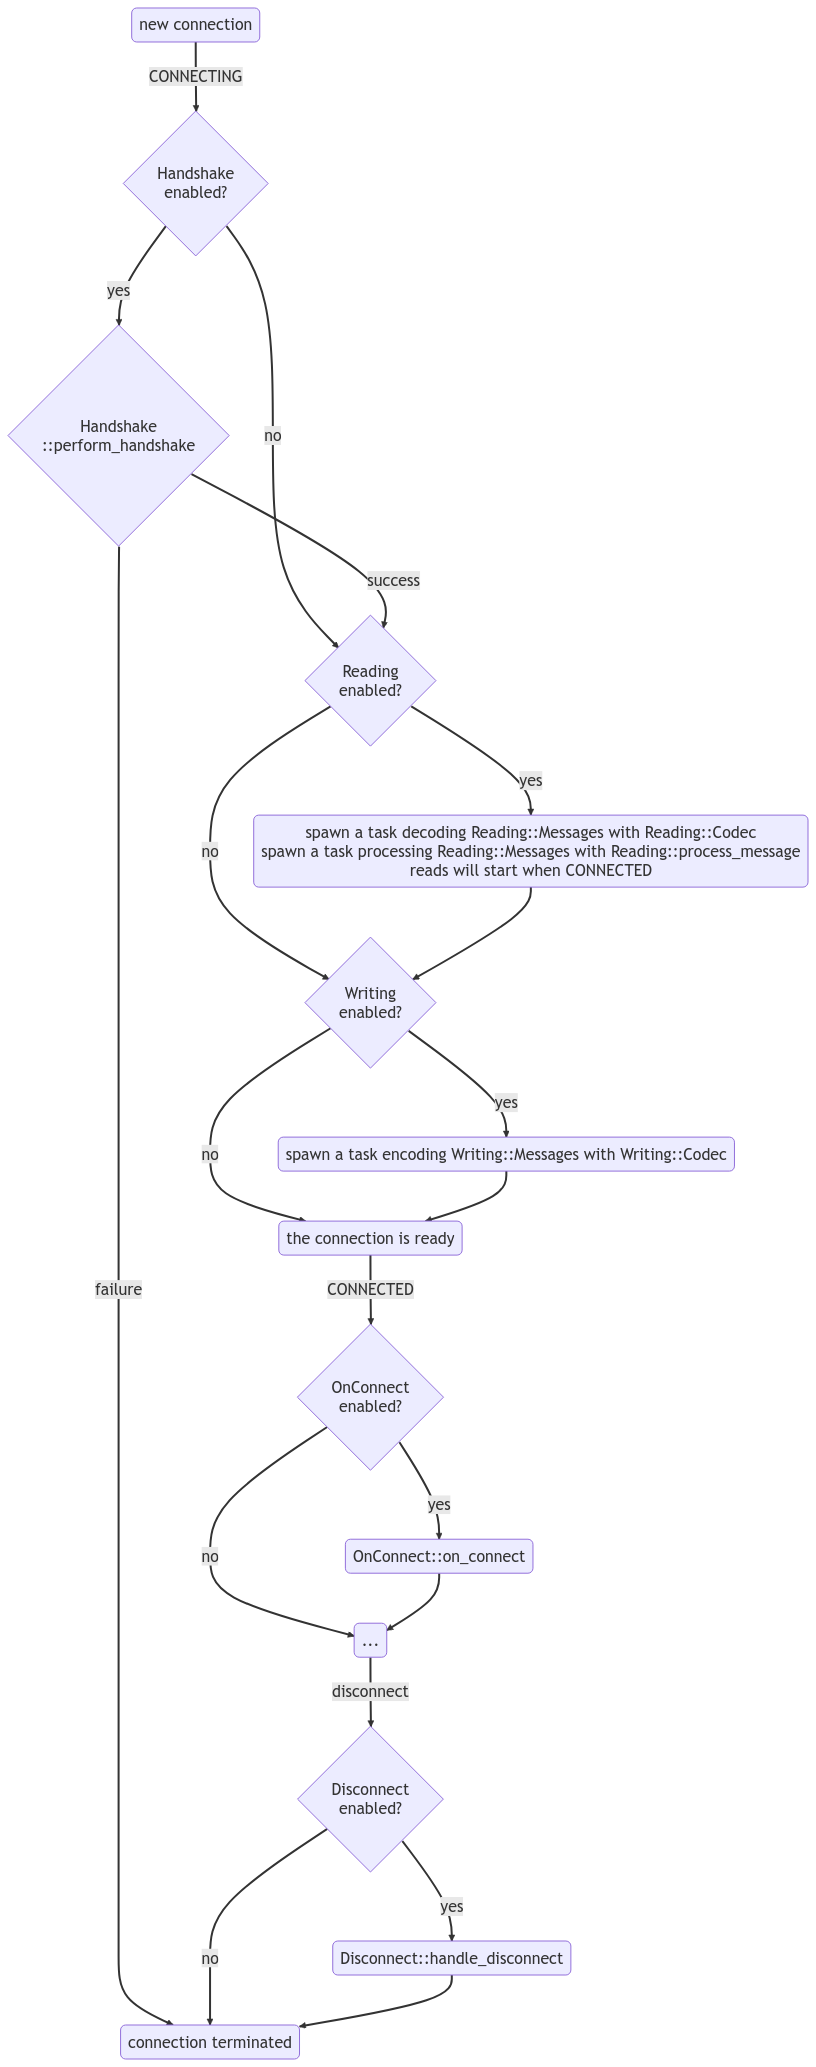
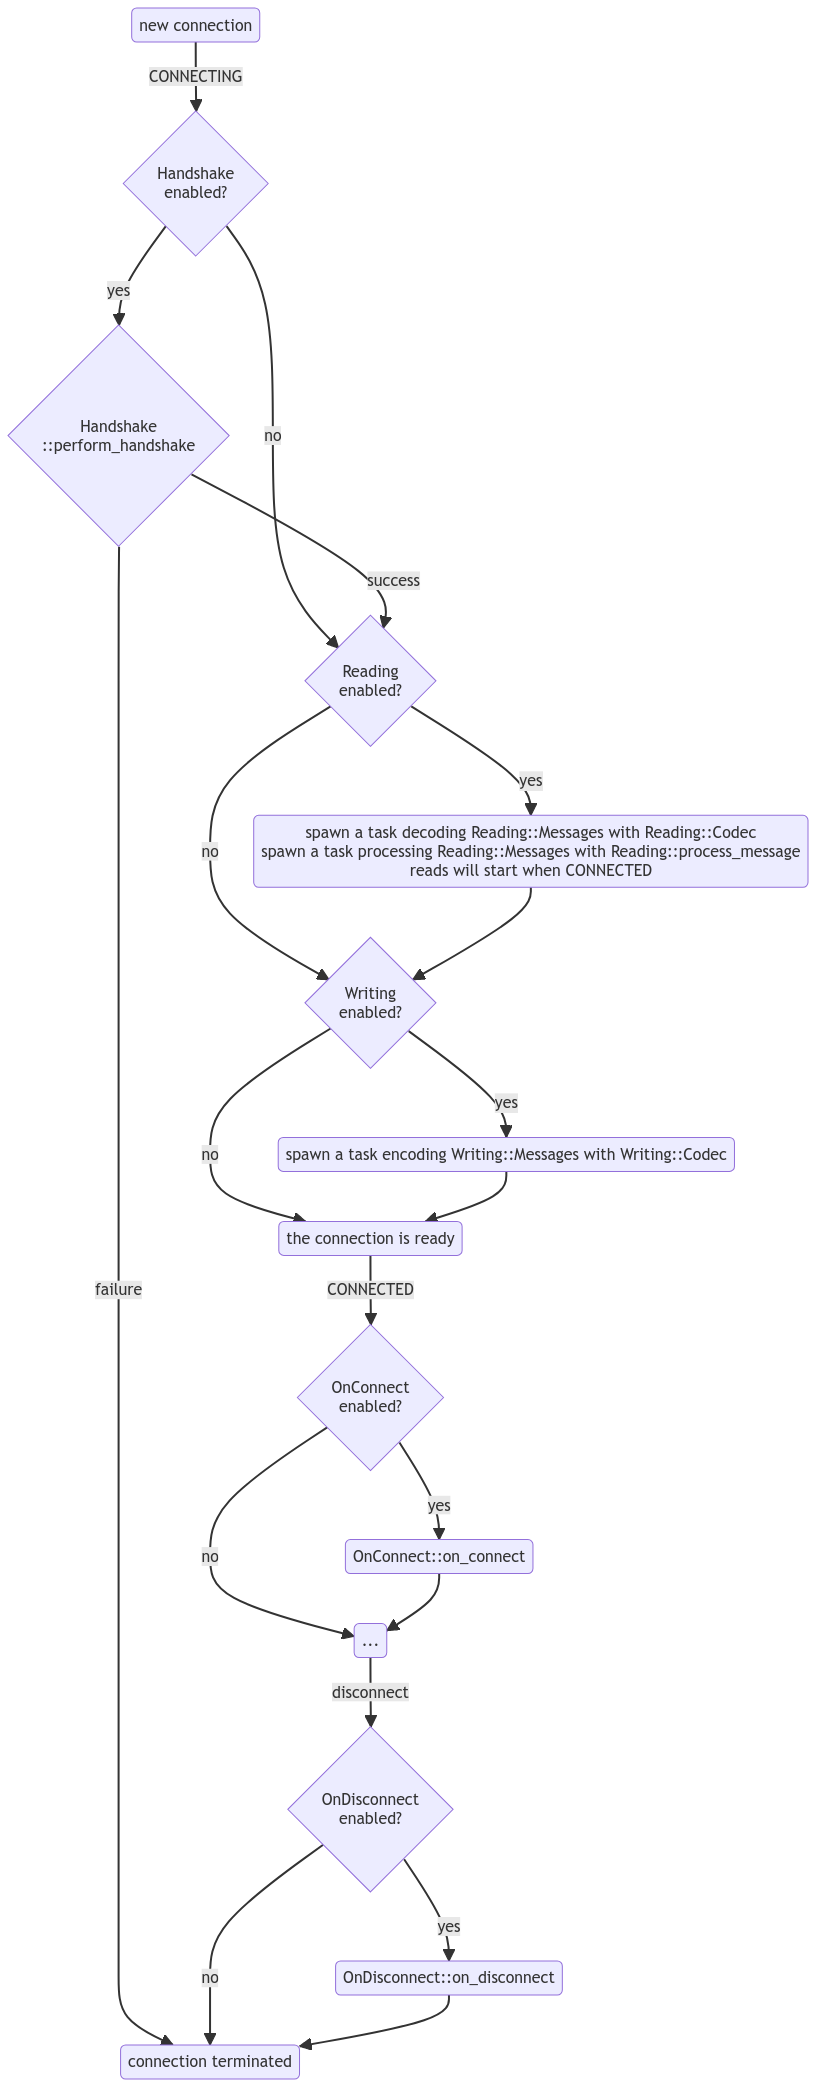
api: rename Disconnect to OnDisconnect

diff --git a/src/protocols/on_disconnect.rs b/src/protocols/on_disconnect.rs
@@ -19,11 +19,11 @@ use crate::{
 /// from the associated connection (i.e. [`Reading`] is enabled) or if it attempts to send a message
 /// to it (i.e. one of the [`Writing`] methods is called).
 #[async_trait::async_trait]
-pub trait Disconnect: Pea2Pea
+pub trait OnDisconnect: Pea2Pea
 where
     Self: Clone + Send + Sync + 'static,
 {
-    /// Attaches the behavior specified in [`Disconnect::handle_disconnect`] to every occurrence of the
+    /// Attaches the behavior specified in [`OnDisconnect::on_disconnect`] to every occurrence of the
     /// node disconnecting from a peer.
     async fn enable_disconnect(&self) {
         let (from_node_sender, mut from_node_receiver) =
@@ -35,9 +35,9 @@ where
         // spawn a background task dedicated to handling disconnect events
         let self_clone = self.clone();
         let disconnect_task = tokio::spawn(async move {
-            trace!(parent: self_clone.node().span(), "spawned the Disconnect handler task");
+            trace!(parent: self_clone.node().span(), "spawned the OnDisconnect handler task");
             if tx.send(()).is_err() {
-                error!(parent: self_clone.node().span(), "Disconnect handler creation interrupted! shutting down the node");
+                error!(parent: self_clone.node().span(), "OnDisconnect handler creation interrupted! shutting down the node");
                 self_clone.node().shut_down().await;
                 return;
             }
@@ -46,7 +46,7 @@ where
                 let self_clone2 = self_clone.clone();
                 tokio::spawn(async move {
                     // perform the specified extra actions
-                    self_clone2.handle_disconnect(addr).await;
+                    self_clone2.on_disconnect(addr).await;
                     // notify the node that the extra actions have concluded
                     // and that the related connection can be dropped
                     let _ = notifier.send(()); // can't really fail
@@ -57,18 +57,18 @@ where
         self.node()
             .tasks
             .lock()
-            .insert(NodeTask::Disconnect, disconnect_task);
+            .insert(NodeTask::OnDisconnect, disconnect_task);
 
-        // register the Disconnect handler with the Node
+        // register the OnDisconnect handler with the Node
         let hdl = ProtocolHandler(from_node_sender);
         assert!(
-            self.node().protocols.disconnect.set(hdl).is_ok(),
-            "the Disconnect protocol was enabled more than once!"
+            self.node().protocols.on_disconnect.set(hdl).is_ok(),
+            "the OnDisconnect protocol was enabled more than once!"
         );
     }
 
     /// Any extra actions to be executed during a disconnect; in order to still be able to
     /// communicate with the peer in the usual manner (i.e. via [`Writing`]), only its [`SocketAddr`]
     /// (as opposed to the related [`Connection`] object) is provided as an argument.
-    async fn handle_disconnect(&self, addr: SocketAddr);
+    async fn on_disconnect(&self, addr: SocketAddr);
 }

diff --git a/src/node.rs b/src/node.rs
@@ -52,7 +52,7 @@ static SEQUENTIAL_NODE_ID: AtomicUsize = AtomicUsize::new(0);
 #[derive(Clone, Copy, PartialEq, Eq, Hash)]
 pub(crate) enum NodeTask {
     Listener,
-    Disconnect,
+    OnDisconnect,
     Handshake,
     OnConnect,
     Reading,
@@ -422,21 +422,21 @@ impl Node {
 
     /// Disconnects from the provided `SocketAddr`; returns `true` if an actual disconnect took place.
     pub async fn disconnect(&self, addr: SocketAddr) -> bool {
-        // if the Disconnect protocol is enabled, trigger it
-        if let Some(handler) = self.protocols.disconnect.get() {
+        // if the OnDisconnect protocol is enabled, trigger it
+        if let Some(handler) = self.protocols.on_disconnect.get() {
             // only do so if the connection is still present; this check is necessary, because Node::disconnect
             // can be called manually and triggered by both the Reading and Writing protocols
             if self.is_connected(addr) {
                 let (sender, receiver) = oneshot::channel();
 
                 handler.trigger((addr, sender));
-                // wait for the Disconnect protocol to perform its specified actions
+                // wait for the OnDisconnect protocol to perform its specified actions
                 let _ = receiver.await; // can't really fail
             }
         }
 
-        // as soon as the Disconnect protocol does its job, remove the connection from the list of the active
-        // ones; this is only done here, because Disconnect might attempt to send a message to the peer
+        // as soon as the OnDisconnect protocol does its job, remove the connection from the list of the active
+        // ones; this is only done here, because OnDisconnect might attempt to send a message to the peer
         let conn = self.connections.remove(addr);
 
         if let Some(ref conn) = conn {

diff --git a/src/protocols/mod.rs b/src/protocols/mod.rs
@@ -11,15 +11,15 @@ use tokio::sync::{mpsc, oneshot};
 
 use crate::connections::Connection;
 
-mod disconnect;
 mod handshake;
 mod on_connect;
+mod on_disconnect;
 mod reading;
 mod writing;
 
-pub use disconnect::Disconnect;
 pub use handshake::Handshake;
 pub use on_connect::OnConnect;
+pub use on_disconnect::OnDisconnect;
 pub use reading::Reading;
 pub use writing::Writing;
 
@@ -29,7 +29,7 @@ pub(crate) struct Protocols {
     pub(crate) reading: OnceLock<ProtocolHandler<Connection, io::Result<Connection>>>,
     pub(crate) writing: OnceLock<writing::WritingHandler>,
     pub(crate) on_connect: OnceLock<ProtocolHandler<SocketAddr, ()>>,
-    pub(crate) disconnect: OnceLock<ProtocolHandler<SocketAddr, ()>>,
+    pub(crate) on_disconnect: OnceLock<ProtocolHandler<SocketAddr, ()>>,
 }
 
 /// An object sent to a protocol handler task; the task assumes control of a protocol-relevant item `T`,

diff --git a/src/protocols/on_connect.rs b/src/protocols/on_connect.rs
@@ -6,14 +6,14 @@ use tracing::*;
 use crate::{node::NodeTask, protocols::ProtocolHandler, Pea2Pea};
 #[cfg(doc)]
 use crate::{
-    protocols::{Disconnect, Handshake, Reading, Writing},
+    protocols::{Handshake, OnDisconnect, Reading, Writing},
     Connection,
 };
 
 /// Can be used to automatically perform some initial actions when a connection with a peer is
 /// fully established. The reason for its existence (instead of including such behavior in the
 /// [`Handshake`] impl) is that it allows the user to utilize [`Writing`] (if implemented and
-/// enabled) and [`Disconnect`], while [`Handshake`] is very low-level and doesn't provide any
+/// enabled) and [`OnDisconnect`], while [`Handshake`] is very low-level and doesn't provide any
 /// additional functionality - its purpose is only to establish a connection.
 #[async_trait::async_trait]
 pub trait OnConnect: Pea2Pea

diff --git a/examples/hapsburgs_plan_b.rs b/examples/hapsburgs_plan_b.rs
@@ -1,11 +1,11 @@
-//! An homage to the Naked Gun trilogy, showing the `Disconnect` protocol.
+//! An homage to the Naked Gun trilogy, showing the `OnDisconnect` protocol.
 
 mod common;
 
 use std::{io, net::SocketAddr, time::Duration};
 
 use pea2pea::{
-    protocols::{Disconnect, Handshake, Reading, Writing},
+    protocols::{Handshake, OnDisconnect, Reading, Writing},
     Config, Connection, ConnectionSide, Node, Pea2Pea,
 };
 use tokio::time::sleep;
@@ -85,8 +85,8 @@ impl Writing for NakedNode {
 }
 
 #[async_trait::async_trait]
-impl Disconnect for NakedNode {
-    async fn handle_disconnect(&self, _addr: SocketAddr) {
+impl OnDisconnect for NakedNode {
+    async fn on_disconnect(&self, _addr: SocketAddr) {
         if self.node().name() == "Drebin" {
             info!(parent: self.node().span(), "All right. Who else is almost dead?");
         } else {

diff --git a/examples/libp2p.rs b/examples/libp2p.rs
@@ -13,7 +13,7 @@ use libp2p::swarm::{keep_alive, NetworkBehaviour, SwarmBuilder, SwarmEvent};
 use libp2p::{core::multiaddr::Protocol, identity, ping, PeerId, Transport};
 use parking_lot::{Mutex, RwLock};
 use pea2pea::{
-    protocols::{Disconnect, Handshake, Reading, Writing},
+    protocols::{Handshake, OnDisconnect, Reading, Writing},
     Connection, ConnectionSide, Node, Pea2Pea,
 };
 use prost::Message;
@@ -467,8 +467,8 @@ impl Writing for Libp2pNode {
 }
 
 #[async_trait::async_trait]
-impl Disconnect for Libp2pNode {
-    async fn handle_disconnect(&self, addr: SocketAddr) {
+impl OnDisconnect for Libp2pNode {
+    async fn on_disconnect(&self, addr: SocketAddr) {
         self.peer_states.write().remove(&addr);
     }
 }

diff --git a/tests/on_disconnect.rs b/tests/on_disconnect.rs
@@ -6,15 +6,15 @@ mod common;
 use std::{collections::HashSet, net::SocketAddr, sync::Arc, time::Duration};
 
 use pea2pea::{
-    protocols::{Disconnect, Reading},
+    protocols::{OnDisconnect, Reading},
     Pea2Pea,
 };
 
 static DISCONNECT_TRIGGERED: Lazy<Arc<Mutex<HashSet<String>>>> = Lazy::new(Default::default);
 
 #[async_trait::async_trait]
-impl Disconnect for common::TestNode {
-    async fn handle_disconnect(&self, _addr: SocketAddr) {
+impl OnDisconnect for common::TestNode {
+    async fn on_disconnect(&self, _addr: SocketAddr) {
         DISCONNECT_TRIGGERED
             .lock()
             .insert(self.node().name().to_owned());

diff --git a/tests/common/mod.rs b/tests/common/mod.rs
@@ -134,8 +134,8 @@ macro_rules! impl_noop_disconnect_and_handshake {
         }
 
         #[async_trait::async_trait]
-        impl Disconnect for $target {
-            async fn handle_disconnect(&self, _addr: SocketAddr) {}
+        impl OnDisconnect for $target {
+            async fn on_disconnect(&self, _addr: SocketAddr) {}
         }
     };
 }

diff --git a/tests/cleanups.rs b/tests/cleanups.rs
@@ -6,7 +6,7 @@ mod common;
 use std::{io, net::SocketAddr, time::Duration};
 
 use pea2pea::{
-    protocols::{Disconnect, Handshake, Reading, Writing},
+    protocols::{Handshake, OnDisconnect, Reading, Writing},
     Pea2Pea,
 };
 

diff --git a/tests/benches.rs b/tests/benches.rs
@@ -12,7 +12,7 @@ use std::{
 };
 
 use pea2pea::{
-    protocols::{Disconnect, Handshake, Reading, Writing},
+    protocols::{Handshake, OnDisconnect, Reading, Writing},
     ConnectionSide, Node, Pea2Pea,
 };
 

diff --git a/README.md b/README.md
@@ -12,7 +12,7 @@ low-level, opt-in [protocols](https://docs.rs/pea2pea/latest/pea2pea/protocols/i
 - [`Handshake`](https://docs.rs/pea2pea/latest/pea2pea/protocols/trait.Handshake.html) requires connections to adhere to the given handshake logic before anything else can be done with them
 - [`Reading`](https://docs.rs/pea2pea/latest/pea2pea/protocols/trait.Reading.html) enables the node to receive messages based on the user-supplied [Decoder](https://docs.rs/tokio-util/latest/tokio_util/codec/trait.Decoder.html)
 - [`Writing`](https://docs.rs/pea2pea/latest/pea2pea/protocols/trait.Writing.html) enables the node to send messages based on the user-supplied [Encoder](https://docs.rs/tokio-util/latest/tokio_util/codec/trait.Encoder.html)
-- [`Disconnect`](https://docs.rs/pea2pea/latest/pea2pea/protocols/trait.Disconnect.html) makes the node perform specified actions whenever a connection with a peer is severed
+- [`OnDisconnect`](https://docs.rs/pea2pea/latest/pea2pea/protocols/trait.OnDisconnect.html) makes the node perform specified actions whenever a connection with a peer is severed
 - [`OnConnect`](https://docs.rs/pea2pea/latest/pea2pea/protocols/trait.OnConnect.html) makes the node perform specified actions whenever a connection with a peer is fully established (post-handshake)
 
 ## goals

diff --git a/CHANGELOG.md b/CHANGELOG.md
@@ -4,6 +4,8 @@
 
 - `once_cell` is now only a dev dependency
 - due to the use of `std::sync::OnceLock`, the MSRV is increased to 1.70
+- `protocols::Disconnect` was renamed to `::OnDisconnect`
+- `Disconnect::handle_disconnect` is now `OnDisconnect::on_disconnect`
 
 # 0.47.0
 
